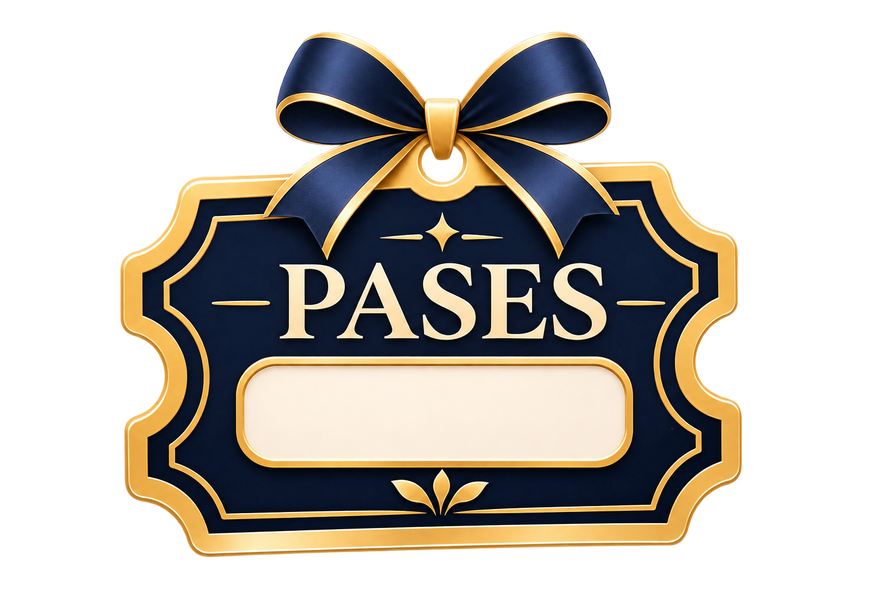
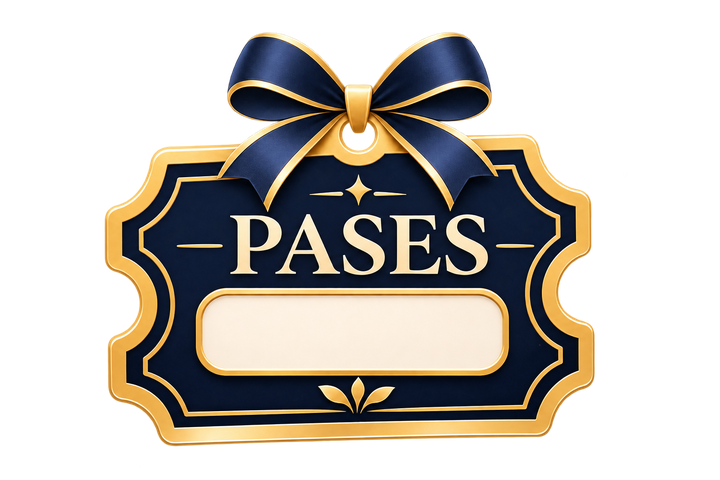
Add files via upload

Changed region(s): [[0.1222, 0.0312, 0.8556, 0.9375]]

diff --git a/styles.css b/styles.css
@@ -3182,6 +3182,48 @@ body.invitation-open .scroll-backdrop { opacity: 1; }
   border-radius: 9px;
   background: rgba(255,255,255,.035);
 }
+
+/* Panel administrativo: desplegable visible y claro para enlaces familiares precargados. */
+.registered-family-dropdown { width:100%; }
+.registered-family-dropdown-summary {
+  display:flex; align-items:center; gap:9px; width:100%;
+  padding:11px 10px; border:1px solid rgba(224,194,137,.58);
+  border-radius:8px; cursor:pointer; list-style:none;
+  background:linear-gradient(135deg,rgba(226,194,137,.15),rgba(255,255,255,.045));
+  box-shadow:inset 0 0 0 1px rgba(255,255,255,.025);
+  transition:background .2s ease,border-color .2s ease;
+}
+.registered-family-dropdown-summary::-webkit-details-marker { display:none; }
+.registered-family-dropdown-summary::marker { content:""; }
+.registered-family-dropdown-summary:hover {
+  border-color:rgba(236,207,157,.85);
+  background:linear-gradient(135deg,rgba(226,194,137,.2),rgba(255,255,255,.07));
+}
+.registered-family-summary-copy { display:grid; gap:3px; min-width:0; flex:1; }
+.registered-family-summary-eyebrow {
+  color:#dabb82; font:600 7px/1.3 var(--sans); letter-spacing:.16em;
+}
+.registered-family-summary-copy strong {
+  color:#fff1dc; font:500 17px/1.12 var(--serif);
+}
+.registered-family-summary-copy small {
+  color:rgba(241,228,208,.7); font:9px/1.35 var(--sans);
+}
+.registered-family-count {
+  flex:0 0 auto; padding:5px 7px; border:1px solid rgba(222,190,133,.5);
+  border-radius:999px; color:#f2d8a8; background:rgba(8,22,43,.48);
+  font:600 7px/1 var(--sans); letter-spacing:.08em; white-space:nowrap;
+}
+.registered-family-chevron {
+  display:grid; place-items:center; width:24px; height:24px; flex:0 0 24px;
+  border:1px solid rgba(222,190,133,.45); border-radius:50%;
+  color:#f0d5a3; font:500 17px/1 var(--sans);
+  transform:rotate(0deg); transition:transform .22s ease;
+}
+.registered-family-dropdown[open] .registered-family-chevron { transform:rotate(180deg); }
+.registered-family-dropdown-body { padding:2px 1px 0; }
+.registered-family-dropdown[open] .registered-family-dropdown-summary { margin-bottom:12px; }
+
 .preset-family-heading { text-align:center; margin:0 0 12px; }
 .preset-family-heading .eyebrow { margin:0 0 5px; color:#ddbd82; font:600 8px/1.4 var(--sans); letter-spacing:.17em; }
 .preset-family-heading h3 { margin:0 0 5px; color:#fff1dc; font:500 22px/1.1 var(--serif); }
@@ -3194,9 +3236,9 @@ body.invitation-open .scroll-backdrop { opacity: 1; }
 }
 .registered-family-main { display:flex; align-items:center; justify-content:space-between; gap:7px; margin-bottom:7px; }
 .registered-family-name { flex:1; min-width:0; color:#fff1de; font:500 14px/1.25 var(--serif); overflow-wrap:anywhere; }
-.registered-pass-badge { position:relative; display:block; flex:0 0 76px; width:76px; line-height:0; }
-.registered-pass-badge img { display:block; width:100%; height:auto; }
-.registered-pass-badge b { position:absolute; left:50%; top:69%; transform:translate(-50%,-50%); color:#172744; font:700 15px/1 var(--serif); }
+.registered-pass-badge { position:relative; display:block; flex:0 0 84px; width:84px; line-height:0; }
+.registered-pass-badge img { display:block; width:100%; height:auto; filter:drop-shadow(0 2px 3px rgba(0,0,0,.16)); }
+.registered-pass-badge b { position:absolute; left:50%; top:70%; transform:translate(-50%,-50%); color:#172744; font:700 17px/1 var(--serif); text-shadow:0 1px 0 rgba(255,255,255,.38); }
 .registered-family-url { display:block; width:100%; min-height:31px; padding:6px 7px; border:1px solid rgba(216,189,139,.25); border-radius:4px; background:rgba(255,255,255,.92); color:#263753; font:10px/1.2 var(--sans); }
 .registered-family-actions { display:flex; align-items:center; gap:8px; margin-top:7px; flex-wrap:wrap; }
 .registered-copy-button { flex:0 0 auto; min-height:34px; padding:8px 11px; font-size:8px; }
@@ -3213,7 +3255,8 @@ body.invitation-open .scroll-backdrop { opacity: 1; }
 .timeline-section .timeline-hosts i { color:#d9b675; font:italic 12px/1 var(--serif); }
 @media(max-width:390px) {
   .registered-family-name { font-size:13px; }
-  .registered-pass-badge { flex-basis:68px; width:68px; }
+  .registered-pass-badge { flex-basis:72px; width:72px; }
+  .registered-pass-badge b { font-size:15px; }
   .timeline-section .timeline-item-brindis { min-height:136px !important; }
   .timeline-section .timeline-hosts span { font-size:12.5px; }
 }

diff --git a/app.js b/app.js
@@ -1001,36 +1001,11 @@
     }
   }
 
-  if (familyAdminToggle && familyAdminPanel) {
-    familyAdminToggle.addEventListener('click', () => {
-      const willOpen = familyAdminPanel.hidden;
-      familyAdminPanel.hidden = !willOpen;
-      familyAdminToggle.setAttribute('aria-expanded', String(willOpen));
-      if (willOpen && familyPasswordStep && !familyPasswordStep.hidden) {
-        window.setTimeout(() => familyAdminPassword?.focus({ preventScroll: true }), 80);
-      }
-    });
-  }
-
-  if (familyPasswordForm && familyAdminPassword && familyGeneratorStep && familyPasswordStep) {
-    familyPasswordForm.addEventListener('submit', (event) => {
-      event.preventDefault();
-      if (familyAdminPassword.value === FAMILY_LINK_ACCESS_CODE) {
-        familyPasswordError.hidden = true;
-        familyPasswordStep.hidden = true;
-        familyGeneratorStep.hidden = false;
-        window.setTimeout(() => familyNameInput?.focus({ preventScroll: true }), 80);
-      } else {
-        familyPasswordError.hidden = false;
-        familyAdminPassword.select();
-      }
-    });
-  }
-
-  const familyPassCountInput = document.getElementById('familyPassCountInput');
+    const familyPassCountInput = document.getElementById('familyPassCountInput');
   const familyPassCountWrap = document.getElementById('familyPassCountWrap');
   const predefinedFamilyLinks = document.getElementById('predefinedFamilyLinks');
   const predefinedFamilyLinksFeedback = document.getElementById('predefinedFamilyLinksFeedback');
+  const registeredFamilyCount = document.getElementById('registeredFamilyCount');
   const EXTRA_FAMILY_LINKS_STORAGE_KEY = 'nicoleXvExtraFamilyLinks_v1';
 
   // Familias que la familia organizadora indicó para quedar precargadas en el panel.
@@ -1150,9 +1125,11 @@
     if (Number.isInteger(passes) && passes > 0 && passes <= 30) {
       const badgeWrap = document.createElement('span');
       badgeWrap.className = 'registered-pass-badge';
+      badgeWrap.setAttribute('role', 'img');
+      badgeWrap.setAttribute('aria-label', `Pases asignados: ${passes}`);
       const badgeImage = document.createElement('img');
       badgeImage.src = 'assets/pase-cantidad.png';
-      badgeImage.alt = 'Pases';
+      badgeImage.alt = '';
       const badgeNumber = document.createElement('b');
       badgeNumber.textContent = String(passes);
       badgeWrap.append(badgeImage, badgeNumber);
@@ -1208,6 +1185,10 @@
     const extras = readExtraFamilyLinks();
     PRESET_FAMILIES.forEach((record, index) => predefinedFamilyLinks.appendChild(renderFamilyLinkCard(record, index, true)));
     extras.forEach((record, index) => predefinedFamilyLinks.appendChild(renderFamilyLinkCard(record, index, false)));
+    if (registeredFamilyCount) {
+      const total = PRESET_FAMILIES.length + extras.length;
+      registeredFamilyCount.textContent = `${total} ${total === 1 ? 'FAMILIA' : 'FAMILIAS'}`;
+    }
     if (predefinedFamilyLinksFeedback) {
       predefinedFamilyLinksFeedback.textContent = needsPublicBaseUrl && !getInvitationBaseUrl()
         ? 'Pega la dirección HTTPS de GitHub Pages arriba para activar los enlaces y sus botones de copia.'

diff --git a/index.html b/index.html
@@ -473,13 +473,24 @@
             <p id="familyPublicUrlError" class="family-admin-feedback" role="alert" hidden></p>
 
             <section class="preset-family-section" aria-labelledby="presetFamilyLinksTitle">
-              <div class="preset-family-heading">
-                <p class="eyebrow">LISTOS PARA COMPARTIR</p>
-                <h3 id="presetFamilyLinksTitle">Familias registradas</h3>
-                <p>Los enlaces se preparan automáticamente con la dirección pública de esta invitación.</p>
-              </div>
-              <div id="predefinedFamilyLinks" class="predefined-family-links" aria-live="polite"></div>
-              <p id="predefinedFamilyLinksFeedback" class="family-admin-feedback" role="status" aria-live="polite"></p>
+              <details id="registeredFamilyDropdown" class="registered-family-dropdown" open>
+                <summary class="registered-family-dropdown-summary">
+                  <span class="registered-family-summary-copy">
+                    <span class="registered-family-summary-eyebrow">ENLACES LISTOS PARA COMPARTIR</span>
+                    <strong id="presetFamilyLinksTitle">Links generados por familia</strong>
+                    <small>Abre esta lista para copiar cada invitación.</small>
+                  </span>
+                  <span id="registeredFamilyCount" class="registered-family-count">12 FAMILIAS</span>
+                  <span class="registered-family-chevron" aria-hidden="true">⌄</span>
+                </summary>
+                <div class="registered-family-dropdown-body">
+                  <div class="preset-family-heading">
+                    <p>Estas 12 familias ya están registradas. Cada enlace incluye su nombre y, cuando corresponde, su cantidad de pases.</p>
+                  </div>
+                  <div id="predefinedFamilyLinks" class="predefined-family-links" aria-live="polite"></div>
+                  <p id="predefinedFamilyLinksFeedback" class="family-admin-feedback" role="status" aria-live="polite"></p>
+                </div>
+              </details>
             </section>
 
             <p class="family-admin-title family-admin-create-title">Agregar otra invitación</p>
